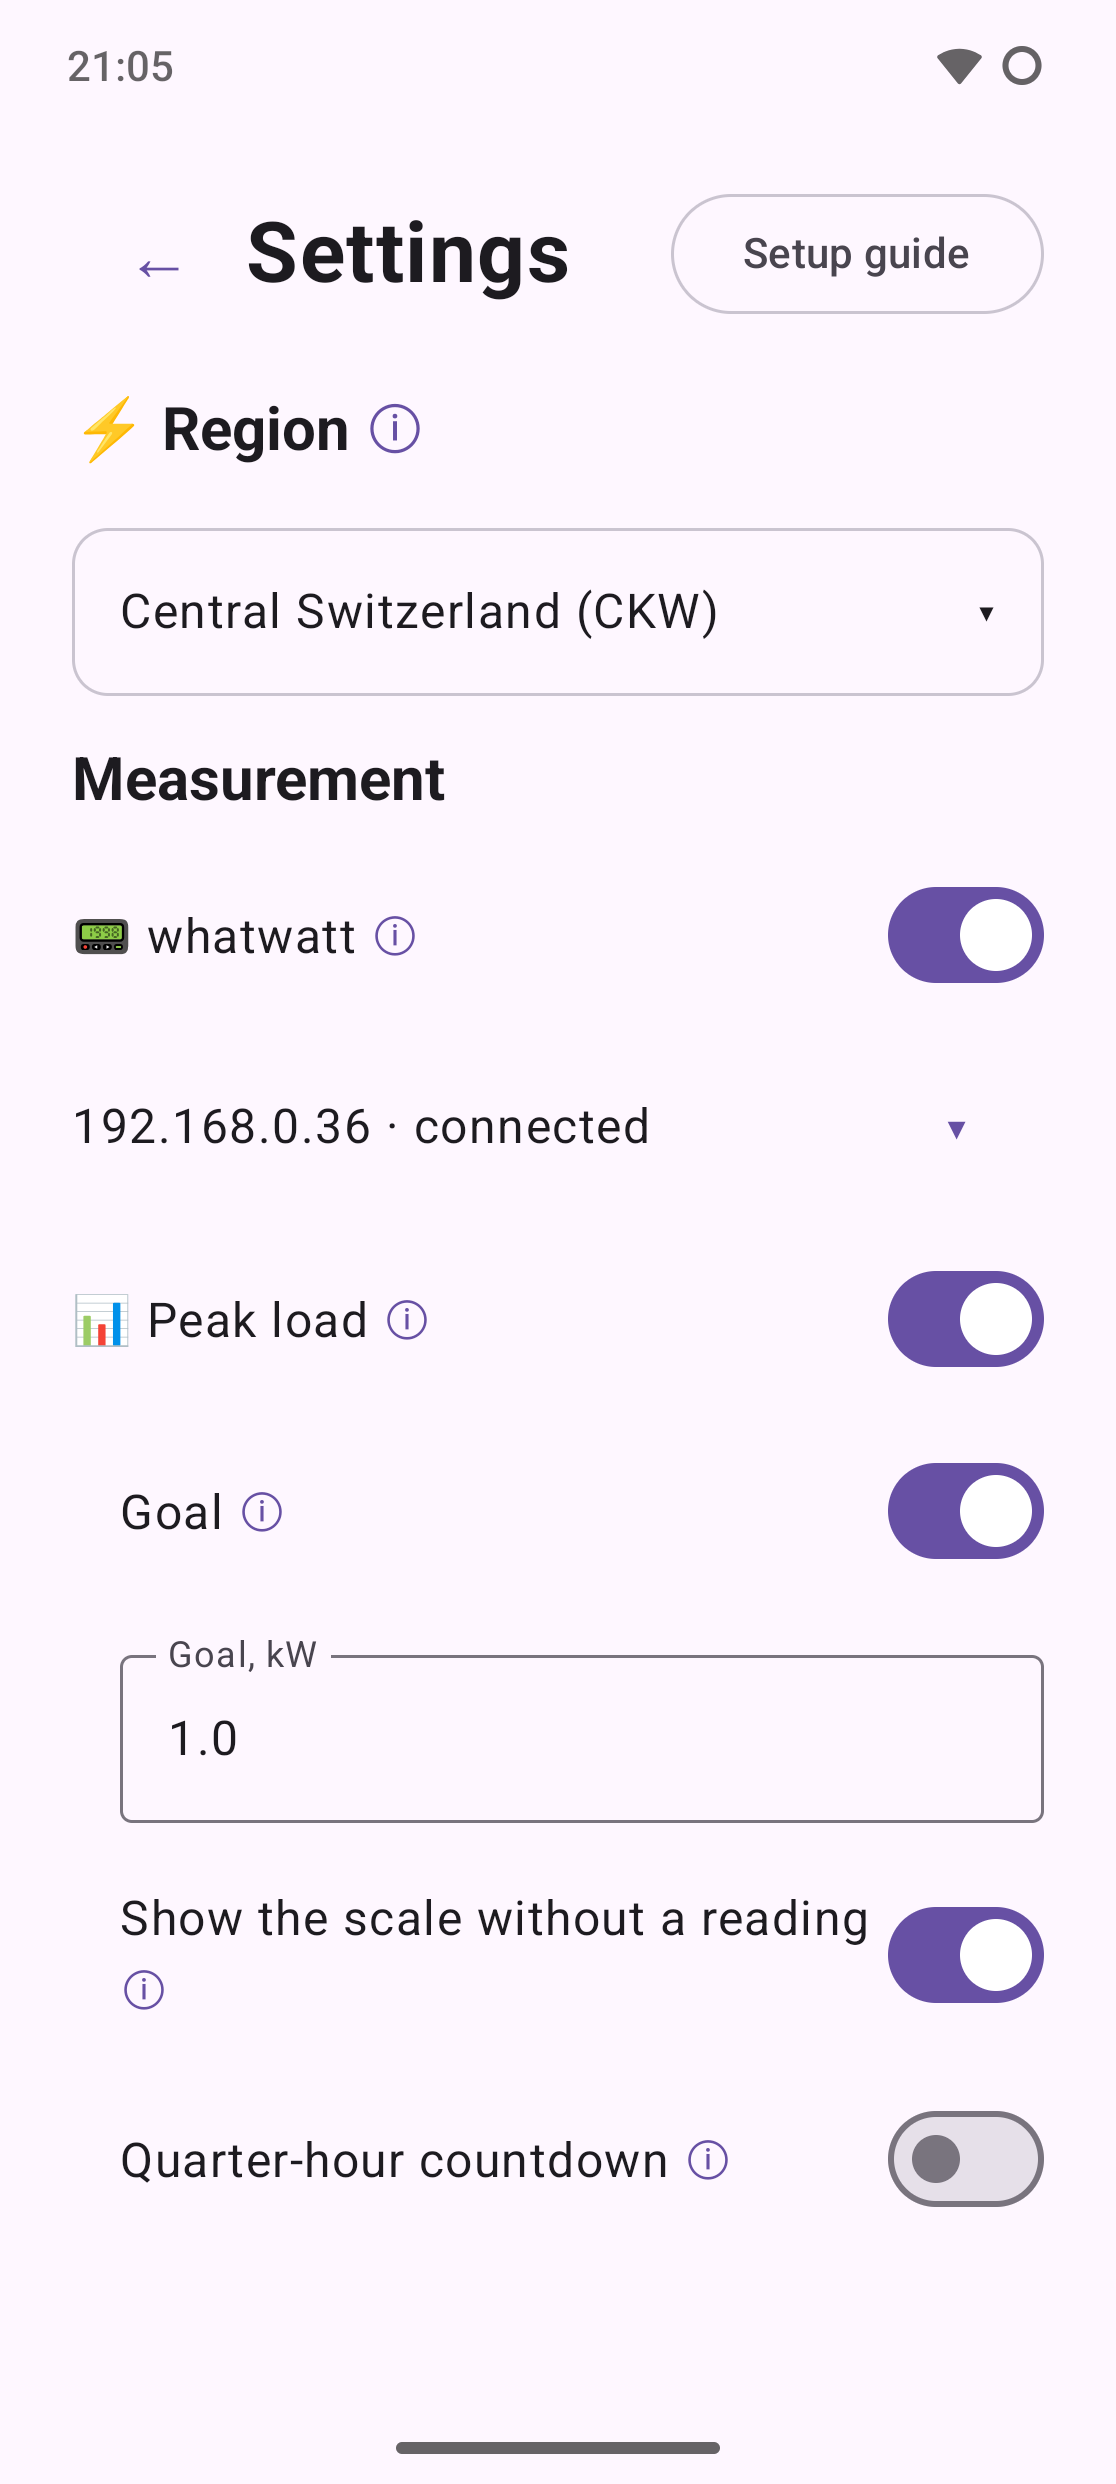
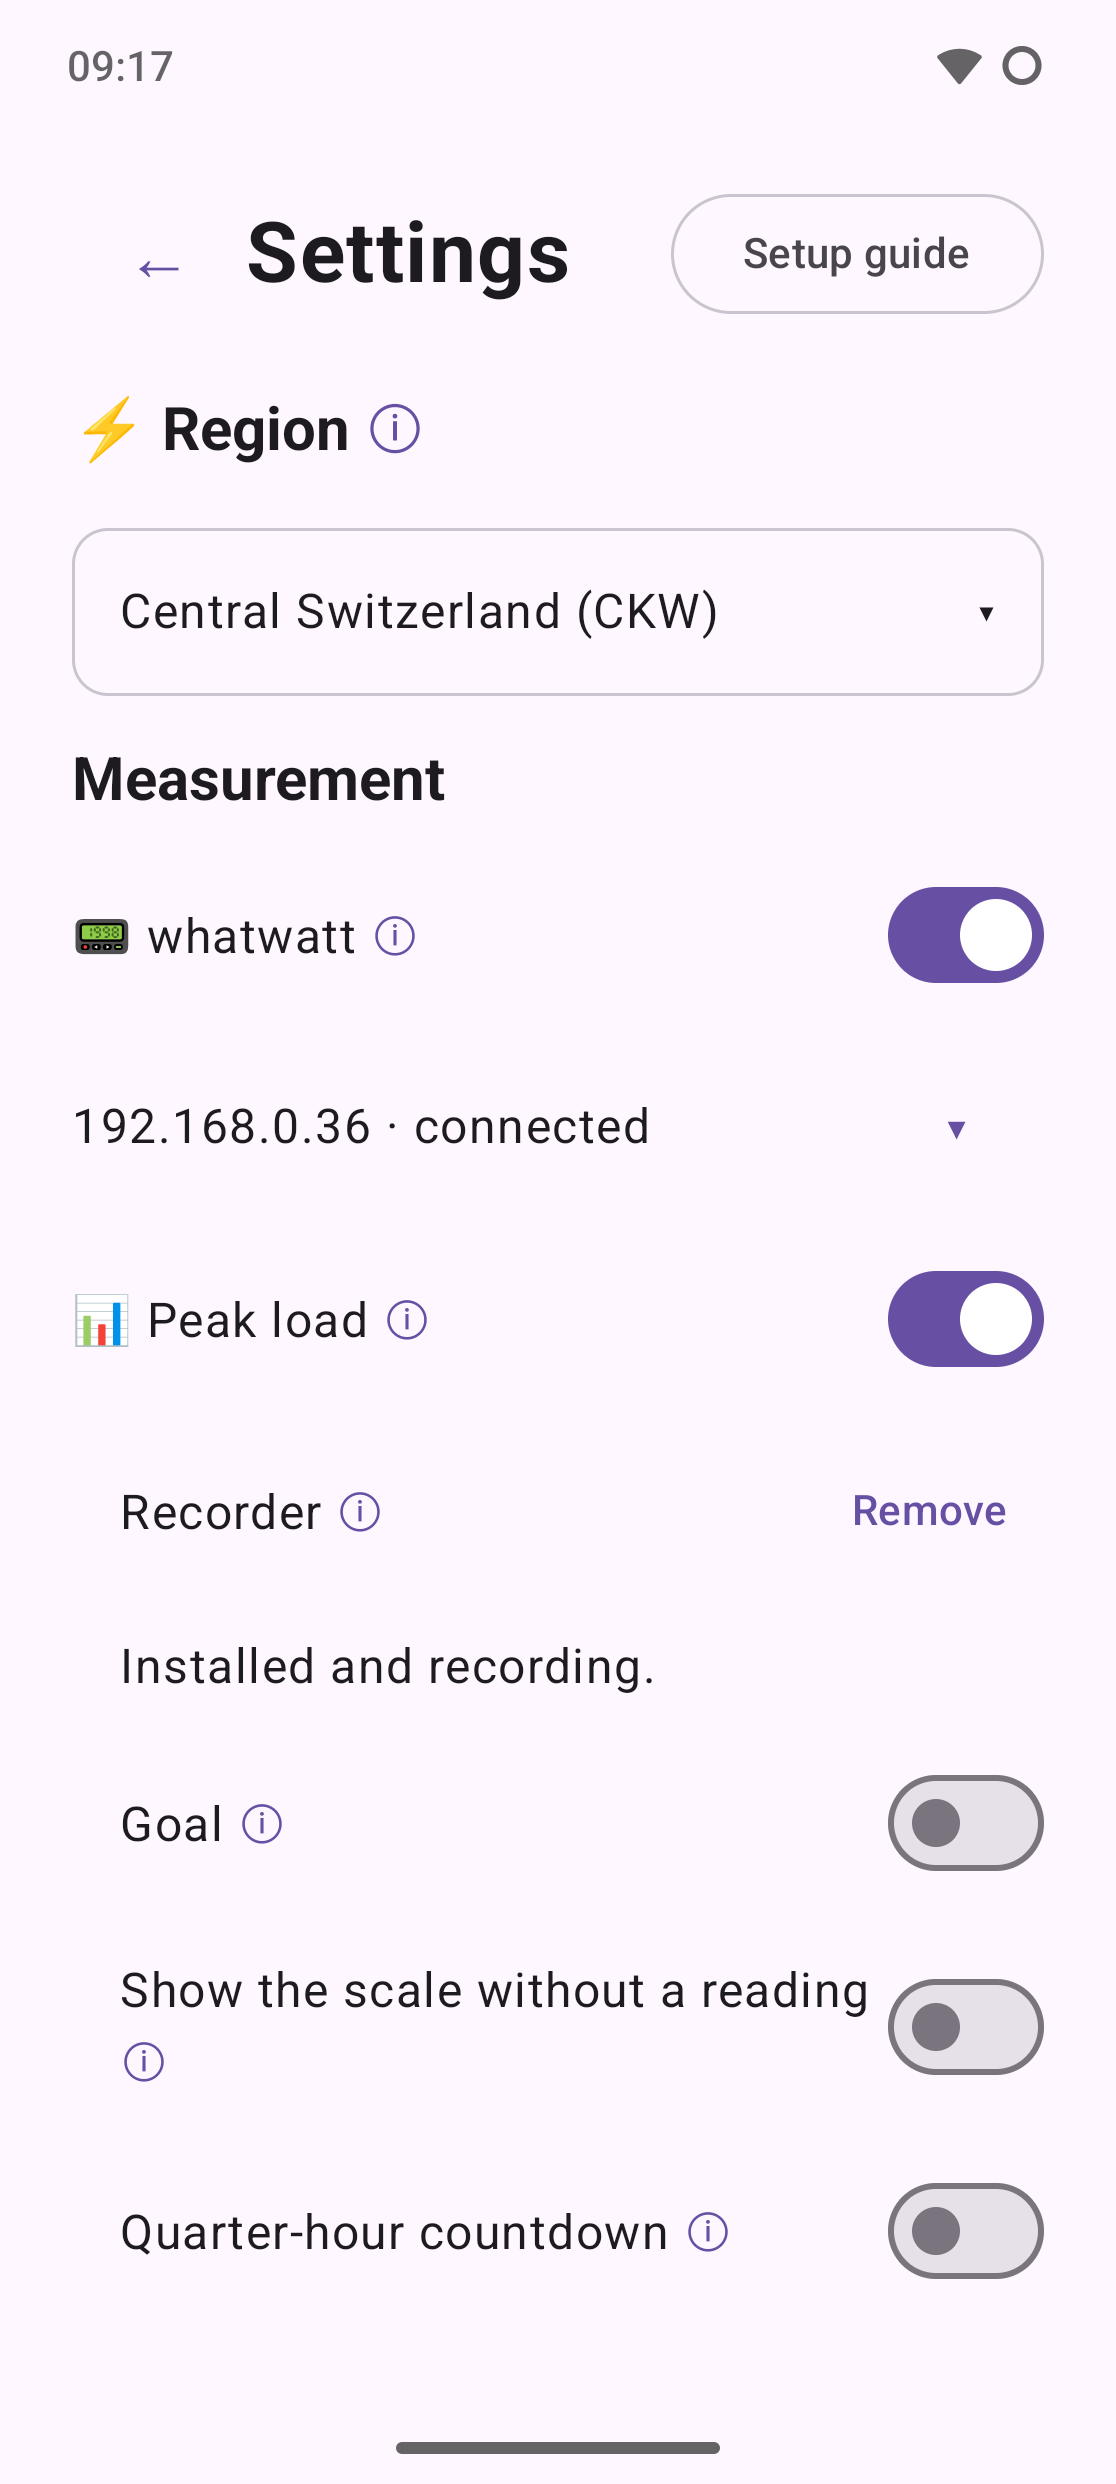
Release v0.8.0: the recorder on the whatwatt
- versionCode 10, changelog 10.txt
- Store screenshots 1 and 3 retaken (peak window without the v0.7 notes,
  the Recorder row in Settings)

diff --git a/CLAUDE.md b/CLAUDE.md
@@ -136,7 +136,7 @@ Why the next 24 hours (checked 2026-09-29 on 1 Aug to 30 Sep 2026): you can't ru
 
 ## Peak load with whatwatt
 
-Built step by step, as the user decides. Released in v0.7.0 (phases 1 to 3); phase 4 (the recorder) is built, not released.
+Built step by step, as the user decides. Released in v0.7.0 (phases 1 to 3) and v0.8.0 (phase 4, the recorder).
 
 ### Household and tariff
 
@@ -208,12 +208,12 @@ Raw responses are in `private/` (gitignored; they contain the meter's id): `what
 1. The whatwatt step, Settings card, cost line and "not reachable" line (`core/.../Whatwatt.kt`): done, v0.7.0.
 2. Live reading and recording (`core/.../Quarters.kt`): done, v0.7.0. Checked against the SD log, interpolated the same way: 18:15 quarter 0.0270 kWh in the app, 0.0265 on the SD card; 18:45 quarter 0.0852 against 0.0856, within the register's 0.001 kWh.
 3. The peak window and the in-app alarm (`PeakWindow.kt`): done, v0.7.0.
-4. The recorder on the whatwatt: built 2026-10-03 (script v2, install/update/start/remove, the sync, the warnings; the app's own recording removed, no fallback). Validated overnight on 2026-10-03: 32 quarters within 0.0012 kWh of the CSV log, only the two restart quarters missing, no reboot. Open: the DST night (25 Oct 2026) and a release. Details in the skill.
+4. The recorder on the whatwatt: done 2026-10-03 (script v2, install/update/start/remove, the sync, the warnings; the app's own recording removed, no fallback). Validated overnight on 2026-10-03 (32 quarters within 0.0012 kWh of the CSV log, no reboot) and on the device (Install, Stop/Start, Remove). Released in v0.8.0. Open: the DST night (25 Oct 2026). Details in the skill.
 5. Later, if wanted: a background alarm (it needs a service polling the whatwatt, the notification permission and local network access in the background). Remote access already works without app changes over a Tailscale subnet route: [research/tailscale_remote_whatwatt.md](research/tailscale_remote_whatwatt.md).
 
 ## Current state
 
-Released: **v0.7.0** (tag `v0.7.0`, versionCode 9, 2026-10-02: the whatwatt, peak load and the UI rework) on GitHub Releases/Obtainium. F-Droid: merge request https://gitlab.com/fdroid/fdroiddata/-/merge_requests/50583, in review, with the recipe at v0.6.0 (user, 2026-10-02); auto update (`UpdateCheckMode: Tags`, `AutoUpdateMode: Version`) picks up v0.7.0 and later tags once merged. Built, not released: whatwatt phase 4, the recorder on the whatwatt (v0.8.0 when released). iOS is out of scope for now. The user gives further instructions step by step; the roadmap and each phase's status are in the skill.
+Released: **v0.8.0** (tag `v0.8.0`, versionCode 10, 2026-10-03: the recorder on the whatwatt, the whatwatt guide); before it v0.7.0 (versionCode 9, 2026-10-02: the whatwatt, peak load and the UI rework) on GitHub Releases/Obtainium. F-Droid: merge request https://gitlab.com/fdroid/fdroiddata/-/merge_requests/50583, in review, with the recipe at v0.6.0 (user, 2026-10-02); auto update (`UpdateCheckMode: Tags`, `AutoUpdateMode: Version`) picks up v0.7.0 and later tags once merged. iOS is out of scope for now. The user gives further instructions step by step; the roadmap and each phase's status are in the skill.
 
 ## Conventions
 

diff --git a/.claude/skills/build-gridload-android/SKILL.md b/.claude/skills/build-gridload-android/SKILL.md
@@ -120,7 +120,7 @@ Next: answer reviewer comments. The user posts on GitLab (it's public under thei
 Claude drafts the answers and any recipe changes, and can check the merge request and
 pipelines through GitLab's public API (`/api/v4/projects/fdroid%2Ffdroiddata/merge_requests/50583`).
 
-### whatwatt [phases 0 to 3 released in v0.7.0; phase 4, the recorder, built 2026-10-03, not released]
+### whatwatt [phases 0 to 3 released in v0.7.0; phase 4, the recorder, in v0.8.0]
 
 The design, the verified API facts and the phases are in `CLAUDE.md` under "Peak load with
 whatwatt" (the recorder: "The recorder (phase 4)"); the Berry tests, the script's history and the
@@ -147,8 +147,7 @@ Open, in order:
    quarter, so a fresh gap can take that long to show.
 3. **The DST night** (25 Oct 2026, 02:00–03:00 twice): the lines are keyed by UTC, so the day
    file just has 100 lines; check it.
-4. **Release v0.8.0** when the user asks (changelog: the recorder, no more "seen only while open",
-   the v0.7 quarters are deleted).
+4. ~~Release v0.8.0~~: tagged 2026-10-03 (store screenshots 1 and 3 retaken).
 
 Unknowns to check when they matter: whether Berry needs the Plus licence; the minimum firmware
 (user, 2026-10-03: 2.0.0 does not run Berry, 2.8.2 does; a firmware check from `/api/v1/system`
